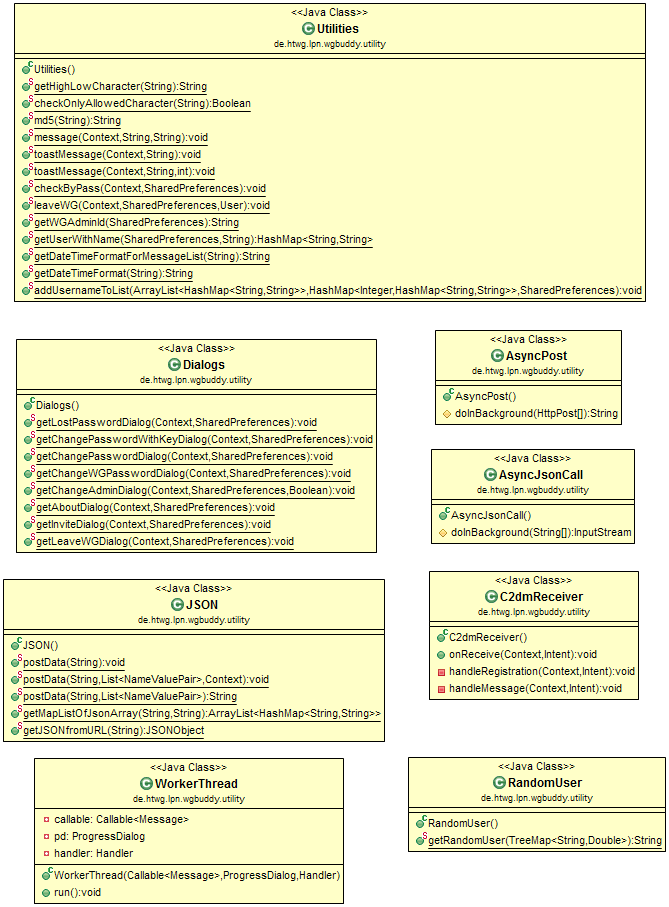
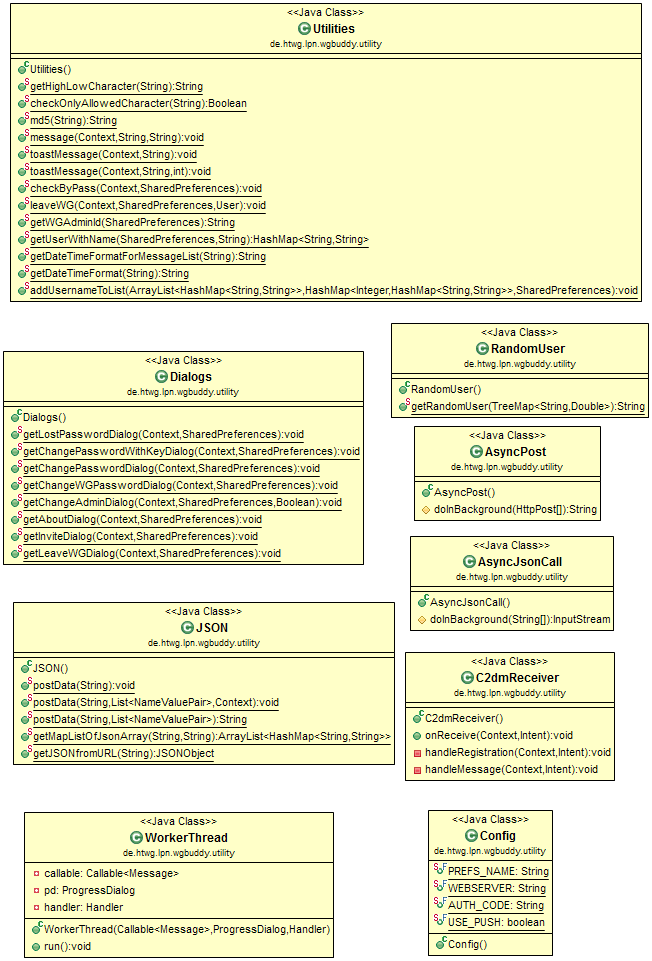
Config-Klasse hinzugefügt.

diff --git a/WG-Buddy/src/de/htwg/lpn/model/Mail.java b/WG-Buddy/src/de/htwg/lpn/model/Mail.java
@@ -5,6 +5,7 @@ import java.util.List;
 import org.apache.http.NameValuePair;
 
 import android.content.SharedPreferences;
+import de.htwg.lpn.wgbuddy.utility.Config;
 import de.htwg.lpn.wgbuddy.utility.JSON;
 
 /**
@@ -35,7 +36,7 @@ public class Mail extends MethodBase
 	 */
 	public void sendChangeKey(String email)
 	{
-		String url = webserver + phpPage + "?lost=" + email + "&" + authCode;
+		String url = Config.WEBSERVER + phpPage + "?lost=" + email + "&" + Config.AUTH_CODE;
 		JSON.postData(url);
 	}
 
@@ -47,7 +48,7 @@ public class Mail extends MethodBase
 	 */
 	public void sendActivateKey(String email)
 	{
-		String url = webserver + phpPage + "?activate=" + email + "&" + authCode;
+		String url = Config.WEBSERVER + phpPage + "?activate=" + email + "&" + Config.AUTH_CODE;
 		JSON.postData(url);
 	}
 
@@ -59,8 +60,8 @@ public class Mail extends MethodBase
 	 */
 	public void sendInvite(String email)
 	{
-		String url = webserver + phpPage + "?invite=" + email + "&username=" + settings.getString("user_name", "") + "&wg=" + settings.getString("wg_name", "") + "&pw="
-		+ settings.getString("wg_password", "") + "&" + authCode;
+		String url = Config.WEBSERVER + phpPage + "?invite=" + email + "&username=" + settings.getString("user_name", "") + "&wg=" + settings.getString("wg_name", "") + "&pw="
+		+ settings.getString("wg_password", "") + "&" + Config.AUTH_CODE;
 		JSON.postData(url);
 	}
 
@@ -74,7 +75,7 @@ public class Mail extends MethodBase
 	 */
 	public void sendTask(List<NameValuePair> nameValuePairs)
 	{
-		String url = webserver + phpPage + "?task&" + authCode;
+		String url = Config.WEBSERVER + phpPage + "?task&" + Config.AUTH_CODE;
 		JSON.postData(url, nameValuePairs);
 	}
 }

diff --git a/WG-Buddy/src/de/htwg/lpn/wgbuddy/Main.java b/WG-Buddy/src/de/htwg/lpn/wgbuddy/Main.java
@@ -18,9 +18,9 @@ import android.view.View;
 import android.view.View.OnClickListener;
 import android.widget.Button;
 import android.widget.TextView;
-import de.htwg.lpn.model.MethodBase;
 import de.htwg.lpn.model.User;
 import de.htwg.lpn.model.WG;
+import de.htwg.lpn.wgbuddy.utility.Config;
 import de.htwg.lpn.wgbuddy.utility.Dialogs;
 import de.htwg.lpn.wgbuddy.utility.Utilities;
 
@@ -29,10 +29,6 @@ import de.htwg.lpn.wgbuddy.utility.Utilities;
  */
 public class Main extends Activity
 {
-	public static final String PREFS_NAME = "WGBuddyPreferences";
-	public static final String WEBSERVER = MethodBase.getWebserver();
-	public static boolean USEPUSH = true;
-
 	private Button shoppinglist;
 	private Button taskdistributor;
 	private Button messenger;
@@ -53,11 +49,11 @@ public class Main extends Activity
 		StrictMode.setThreadPolicy(policy);
 
 		// Die allgemeinen Anwendungsdaten laden.
-		settings = getSharedPreferences(PREFS_NAME, 0);
+		settings = getSharedPreferences(Config.PREFS_NAME, 0);
 
 		// Die Webserver Url in den gemeinsamen Speicher schreiben.
 		SharedPreferences.Editor editor = settings.edit();
-		editor.putString("pref_webserver", MethodBase.getWebserver());
+		editor.putString("pref_webserver", Config.WEBSERVER);
 		editor.commit();
 
 		// Nicht eingeloggt.

diff --git a/WG-Buddy/src/de/htwg/lpn/wgbuddy/WG_Login.java b/WG-Buddy/src/de/htwg/lpn/wgbuddy/WG_Login.java
@@ -20,6 +20,7 @@ import android.widget.Button;
 import android.widget.EditText;
 import de.htwg.lpn.model.User;
 import de.htwg.lpn.model.WG;
+import de.htwg.lpn.wgbuddy.utility.Config;
 import de.htwg.lpn.wgbuddy.utility.Dialogs;
 import de.htwg.lpn.wgbuddy.utility.Utilities;
 
@@ -41,7 +42,7 @@ public class WG_Login extends Activity
 		setContentView(R.layout.wg_login);
 
 		// Die allgemeinen Anwendungsdaten laden.
-		settings = getSharedPreferences(Main.PREFS_NAME, 0);
+		settings = getSharedPreferences(Config.PREFS_NAME, 0);
 
 		// Nicht eingeloggt.
 		if (!settings.contains("user_id") || !settings.contains("user_name") || !settings.contains("user_email") || !settings.contains("user_password"))
@@ -95,7 +96,6 @@ public class WG_Login extends Activity
 				ArrayList<HashMap<String, String>> wgList = wg.get("?name=" + name + "&password=" + password);
 				if (wgList.size() == 1)
 				{
-					SharedPreferences settings = getSharedPreferences(Main.PREFS_NAME, 0);
 					SharedPreferences.Editor editor = settings.edit();
 
 					// WG Eigenschaften speichern.

diff --git a/WG-Buddy/src/de/htwg/lpn/wgbuddy/utility/C2dmReceiver.java b/WG-Buddy/src/de/htwg/lpn/wgbuddy/utility/C2dmReceiver.java
@@ -33,7 +33,7 @@ public class C2dmReceiver extends BroadcastReceiver
 	public void onReceive(Context context, Intent intent)
 	{
 		System.out.println("Received Async Message");
-		if (Main.USEPUSH)
+		if (Config.USE_PUSH)
 		{
 			if (intent.getAction().equals("com.google.android.c2dm.intent.REGISTRATION"))
 			{
@@ -95,14 +95,14 @@ public class C2dmReceiver extends BroadcastReceiver
 		}
 		else if (registration != null)
 		{
+			SharedPreferences settings = context.getSharedPreferences(Config.PREFS_NAME, 0);
+
 			// Android Key im gemeinsamen Speicher speichern.
 			Log.d("c2dm", registration);
-			Editor editor = context.getSharedPreferences(Main.PREFS_NAME, 0).edit();
+			Editor editor = settings.edit();
 			editor.putString("registrationKey", registration);
 			editor.putLong("registrationKeydate", new Date().getTime());
 			editor.commit();
-
-			SharedPreferences settings = context.getApplicationContext().getSharedPreferences(Main.PREFS_NAME, 0);
 
 			// Android Key in der Datenbank speichern.
 			User user = new User(settings);

diff --git a/WG-Buddy/src/de/htwg/lpn/model/GoogleService.java b/WG-Buddy/src/de/htwg/lpn/model/GoogleService.java
@@ -7,6 +7,7 @@ import org.apache.http.NameValuePair;
 import org.apache.http.message.BasicNameValuePair;
 
 import android.content.SharedPreferences;
+import de.htwg.lpn.wgbuddy.utility.Config;
 import de.htwg.lpn.wgbuddy.utility.JSON;
 
 /**
@@ -43,7 +44,7 @@ public class GoogleService extends MethodBase
 		nameValuePairs.add(new BasicNameValuePair("msgType", "collapsed"));
 		nameValuePairs.add(new BasicNameValuePair("messageText", message));
 
-		String url = webserver + phpPage + "?" + authCode;
+		String url = Config.WEBSERVER + phpPage + "?" + Config.AUTH_CODE;
 		JSON.postData(url, nameValuePairs);
 	}
 
@@ -53,7 +54,7 @@ public class GoogleService extends MethodBase
 	 */
 	public void googleAuthenticate()
 	{
-		String url = webserver + phpPage + "?Authenticate&" + authCode;
+		String url = Config.WEBSERVER + phpPage + "?Authenticate&" + Config.AUTH_CODE;
 		JSON.postData(url);
 	}
 }

diff --git a/WG-Buddy/src/de/htwg/lpn/wgbuddy/WG_Create.java b/WG-Buddy/src/de/htwg/lpn/wgbuddy/WG_Create.java
@@ -20,6 +20,7 @@ import android.widget.Button;
 import android.widget.TextView;
 import de.htwg.lpn.model.User;
 import de.htwg.lpn.model.WG;
+import de.htwg.lpn.wgbuddy.utility.Config;
 import de.htwg.lpn.wgbuddy.utility.Dialogs;
 import de.htwg.lpn.wgbuddy.utility.Utilities;
 
@@ -42,7 +43,7 @@ public class WG_Create extends Activity
 		setContentView(R.layout.wg_create);
 
 		// Die allgemeinen Anwendungsdaten laden.
-		settings = getSharedPreferences(Main.PREFS_NAME, 0);
+		settings = getSharedPreferences(Config.PREFS_NAME, 0);
 
 		// Nicht eingeloggt.
 		if (!settings.contains("user_id") || !settings.contains("user_name") || !settings.contains("user_email") || !settings.contains("user_password"))
